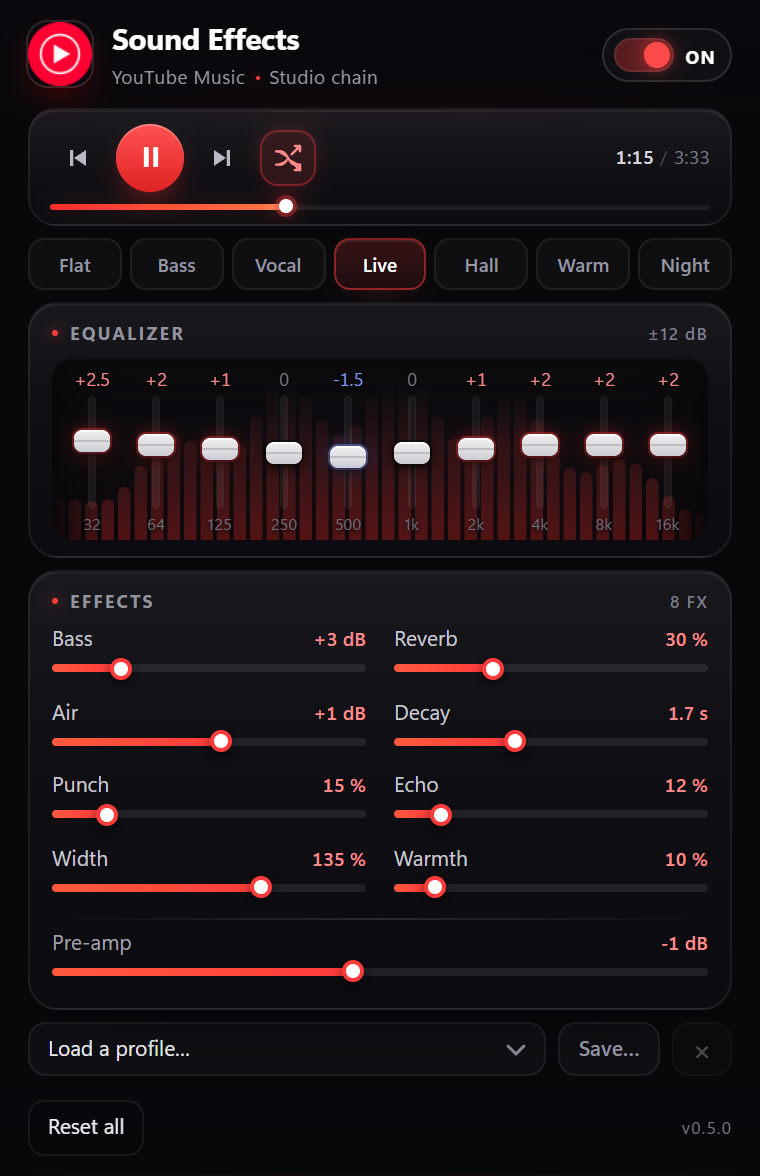
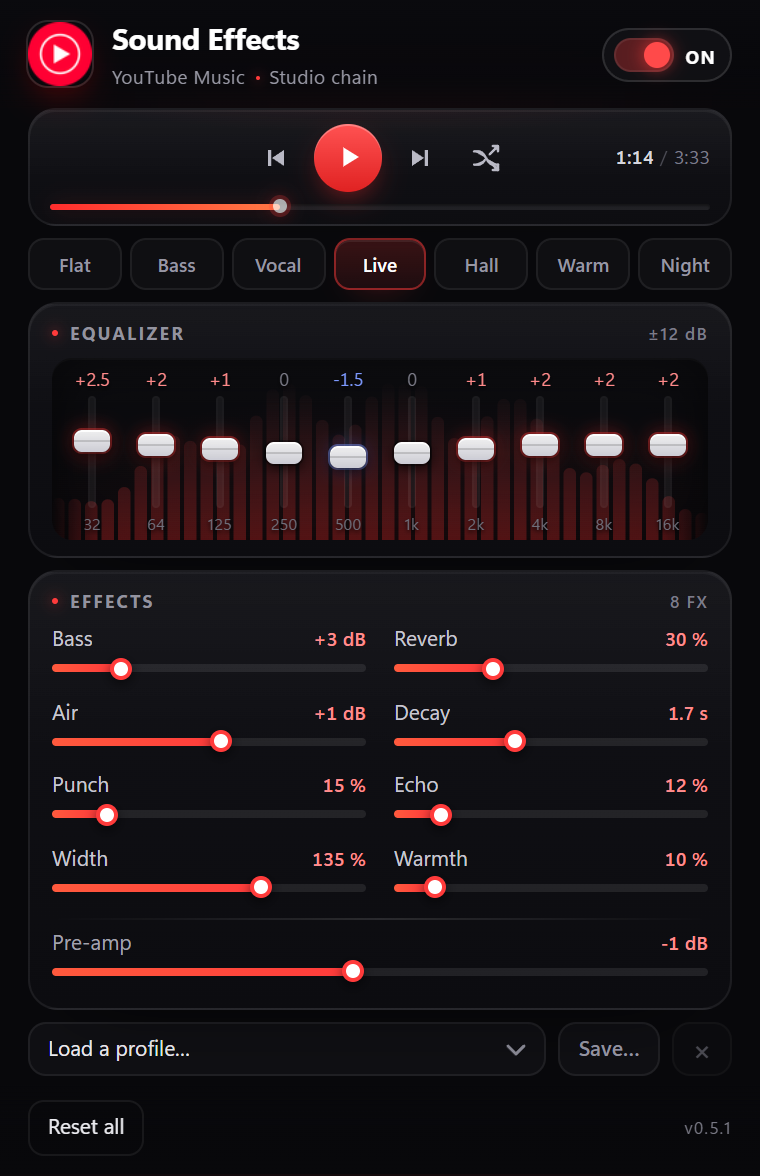
Fix audio chain wiring and center transport controls

diff --git a/popup.css b/popup.css
@@ -284,6 +284,12 @@ main {
   gap: 5px;
 }
 
+/* Equal spacer + time column keep the button group optically centred. */
+.transport::before {
+  content: "";
+  flex: 1 1 0;
+}
+
 .tbtn {
   display: inline-flex;
   align-items: center;
@@ -368,8 +374,10 @@ main {
 }
 
 .time {
-  margin-left: auto;
-  padding-left: 4px;
+  flex: 1 1 0;
+  margin-left: 0;
+  padding-left: 0;
+  text-align: right;
   font-size: 9.5px;
   font-variant-numeric: tabular-nums;
   letter-spacing: 0.02em;

diff --git a/audio.js b/audio.js
@@ -330,11 +330,11 @@
     split.connect(sideR, 1);
     sideR.connect(side);
     mid.connect(merge, 0);
-    mid.connect(merge, 1);
+    mid.connect(merge, 0, 1);
     side.connect(this._widthSideL);
     this._widthSideL.connect(merge, 0);
     side.connect(this._widthSideR);
-    this._widthSideR.connect(merge, 1);
+    this._widthSideR.connect(merge, 0, 1);
 
     merge.connect(this.warmDry);
     merge.connect(this.shaper);

diff --git a/popup.html b/popup.html
@@ -188,7 +188,7 @@
 
     <footer class="foot">
       <button id="reset" type="button" class="ghost">Reset all</button>
-      <span class="version">v0.5.0</span>
+      <span class="version">v0.5.1</span>
     </footer>
 
     <script src="audio.js"></script>

diff --git a/README.md b/README.md
@@ -234,11 +234,12 @@ docs/popup.png  screenshot used above
 * `node --check` on every script; manifest parses; every referenced asset exists.
 * The whole graph was unit-tested against a stubbed Web Audio API (wiring,
   gains, M/S width, saturation curve, echo loop, bypass neutrality, single-source
-  reuse); the master mute and analyser were verified against the real player.
-* Loaded unpacked in **Brave 156** (Chromium 156) against real YouTube Music:
-  chain attached, `AudioContext` running, post-limiter RMS **0.030 → 0.064** on
-  playback, and a config written to storage changed the applied filters and the
-  output level.
+  reuse), including node port validation so a mono node can never be connected to
+  merger input 1 through the output-index argument.
+* Loaded unpacked in **Brave 156** (Chromium 156) and driven through the real
+  extension's isolated world on live YouTube Music: chain attached, `AudioContext`
+  running, post-limiter RMS **0.146** with the spectrum moving, and the graph
+  routed to `destination` (no silent tab).
 * Popup rendered and measured in **Brave 156** at **380×588 px** (2× DPR) —
   inside Chromium's 600 px limit — with every input labelled, the spectrum moving
   behind the EQ faders only, and the profile row behaving (placeholder selected,
@@ -262,9 +263,11 @@ docs/popup.png  screenshot used above
   `shuffle` through the real `content.js` and asserted the corresponding
   player-bar buttons received the clicks. The popup test measured the progress
   fill moving **117.6 → 118.2 px over 350 ms** while the labels advanced
-  **1:15 → 1:16**, and clicked all five controls through the popup itself.
+  **1:15 → 1:16**, and clicked all four controls through the popup itself.
 * Popup layout after the transport was added: still **380×588 px** in both the
-  YouTube Music and no-tab states (Chromium limit 600), with no scrollbar.
+  YouTube Music and no-tab states (Chromium limit 600), with no scrollbar. The
+  transport group measures dead-centre (`group offset 0 px`), with the elapsed /
+  total time right-aligned.
 
 Not verified: how it sounds on your speakers. That needs your ears.
 
